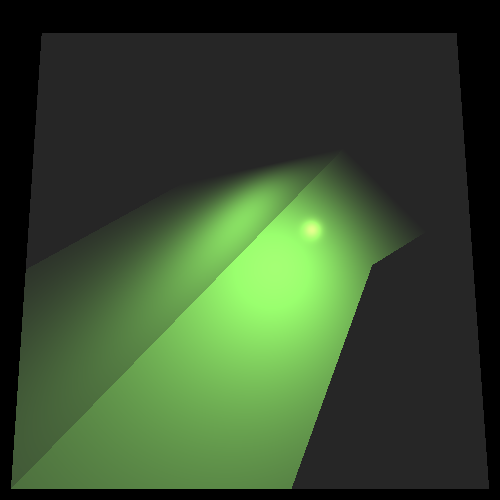
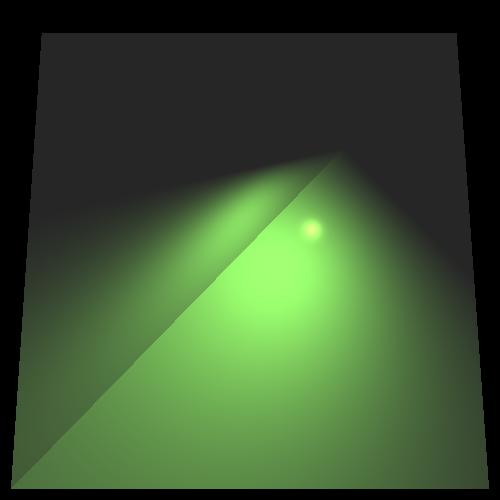
stage 7.2

Changed region(s): [[0.57, 0.48, 0.99, 0.99]]

diff --git a/src/renderer/RayTracerBasic.java b/src/renderer/RayTracerBasic.java
@@ -38,7 +38,7 @@ public class RayTracerBasic extends RayTracerBase {
      */
     private static final double MIN_CALC_COLOR_K = 0.001;
 
-    private static  final  Double3 INITIAL_K = Double3.ONE;
+    private static final Double3 INITIAL_K = Double3.ONE;
 
     //-----------------------------constructor-------------------------
 
@@ -88,15 +88,31 @@ public class RayTracerBasic extends RayTracerBase {
 
             // Check if any intersection point is closer to the light source than the current point
             for (GeoPoint intersectionPoint : intersections) {
-                if(intersectionPoint.geometry.getMaterial().kT.lowerThan(MIN_CALC_COLOR_K) ||
-                        lightSource.getDistance(gp.point) > point.distance(intersectionPoint.point))
-                    return false;
-                /*
-                if (lightSource.getDistance(gp.point) > point.distance(intersectionPoint.point))
-                    return false;
-                 */
+                if (lightSource.getDistance(gp.point) < point.distance(intersectionPoint.point)) {
+                    // Remove intersection points that are farther away from the light source than the current point
+                    intersections.remove(intersectionPoint);
+                }
             }
 
+            Double3 tr = Double3.ONE;
+            for (var geo : intersections) {
+                // Calculate the transmission coefficient (tr) for each intersection point
+                tr = tr.product(geo.geometry.getMaterial().kT);
+
+                // Check if the transmission coefficient is below the minimum threshold (MIN_CALC_COLOR_K)
+                if (tr.lowerThan(MIN_CALC_COLOR_K)) {
+                    // If the transmission coefficient is below the threshold, the point is considered fully transparent
+                    // and further calculations are not required
+                    return false;
+                }
+            }
+
+            /*
+             for (GeoPoint intersectionPoint : intersections) {
+                if (lightSource.getDistance(gp.point) > point.distance(intersectionPoint.point))
+                    return false;
+             }
+             */
             // If no closer intersection found, the point is unshaded
             return true;
         } catch (IllegalArgumentException e) {
@@ -114,37 +130,35 @@ public class RayTracerBasic extends RayTracerBase {
      * @param ray   The ray that intersected with the geometry
      * @return The color at the intersection point
      */
-    /**
-    private Color calcColor(GeoPoint point, Ray ray) {
-        // Calculate the color using ambient light and local effects
-        // Start by getting the intensity of the ambient light from the scene's ambient light source
-        Color ambientIntensity = scene.ambientLight.getIntensity();
-
-        // Calculate the local effects at the intersection point
-        Color localEffects = calcLocalEffects(point, ray);
-
-        // Combine the ambient light intensity and the local effects to get the final color
-        Color color = ambientIntensity.add(localEffects);
-
-        // Return the calculated color
-        return color;
-    }
-
+    /*
+     * private Color calcColor(GeoPoint point, Ray ray) {
+     * // Calculate the color using ambient light and local effects
+     * // Start by getting the intensity of the ambient light from the scene's ambient light source
+     * Color ambientIntensity = scene.ambientLight.getIntensity();
+     * <p>
+     * // Calculate the local effects at the intersection point
+     * Color localEffects = calcLocalEffects(point, ray);
+     * <p>
+     * // Combine the ambient light intensity and the local effects to get the final color
+     * Color color = ambientIntensity.add(localEffects);
+     * <p>
+     * // Return the calculated color
+     * return color;
+     * }
      */
-
-/*
+    /*
     private Color calcColor(GeoPoint gp, Ray ray, int level, Double3 k) {
         Color color = scene.ambientLight.getIntensity()
                 .add(calcLocalEffects(gp, ray));
         return 1 == level ? color : color.add(calcGlobalEffects(gp, ray, level, k));
     }
 
- */
-
+    */
     private Color calcColor(GeoPoint intersection, Ray ray, int level, Double3 k) {
         Color color = calcLocalEffects(intersection, ray);
         return 1 == level ? color
-                : color.add(calcGlobalEffects(intersection, ray, level, k));}
+                : color.add(calcGlobalEffects(intersection, ray, level, k));
+    }
 
 
     private Color calcColor(GeoPoint geopoint, Ray ray) {
@@ -200,17 +214,18 @@ public class RayTracerBasic extends RayTracerBase {
         if (kkx.lowerThan(MIN_CALC_COLOR_K)) return Color.BLACK;
         GeoPoint gp = findClosestIntersection(ray);
         if (gp == null) return scene.background.scale(kx);
-        return isZero(gp.geometry.getNormal(gp.point).dotProduct(ray.getDir()))? Color.BLACK :
-                calcColor(gp, ray, (level-1), kkx);
+        return isZero(gp.geometry.getNormal(gp.point).dotProduct(ray.getDir())) ? Color.BLACK :
+                calcColor(gp, ray, (level - 1), kkx);
     }
 
     private Color calcGlobalEffects(GeoPoint gp, Ray ray, int level, Double3 k) {
-        Color color = Color.BLACK;
+        //Color color = Color.BLACK;
         Vector v = ray.getDir();
         Vector n = gp.geometry.getNormal(gp.point);
         Material material = gp.geometry.getMaterial();
-        return calcGlobalEffect(constructReflectedRay(gp.point, v, n),level, k, material.kR)
-                .add(calcGlobalEffect(constructRefractedRay(gp.point, v, n),level, k, material.kT));}
+        return calcGlobalEffect(constructReflectedRay(gp.point, v, n), level, k, material.kR)
+                .add(calcGlobalEffect(constructRefractedRay(gp.point, v, n), level, k, material.kT));
+    }
 
     /**
      * Calculates the specular reflection color at a given intersection point.
@@ -246,7 +261,7 @@ public class RayTracerBasic extends RayTracerBase {
      * @return The calculated diffuse reflection color at the given intersection point
      */
     private Color calcDiffusive(Double3 kD, double nl, Color iL) {
-        // Calculate the diffuse reflection of light on the surface using the Lambertian reflection model
+        // Calculate the diffuse reflection of light on the surface using the Lambert reflection model
         // Start by scaling the diffuse coefficient with the absolute value of the dot product between the surface normal and the light direction
         Double3 diffuseCoefficient = kD.scale(Math.abs(nl));
 
@@ -335,13 +350,12 @@ public class RayTracerBasic extends RayTracerBase {
     }
 
 
-
     //---------------------------override functions-------------------------
 
     @Override
     public Color traceRay(Ray ray) {
         // Find the closest intersections between the ray and geometries in the scene
-        GeoPoint point  = this.findClosestIntersection(ray);
+        GeoPoint point = this.findClosestIntersection(ray);
 
         // If no intersections are found, return the background color of the scene
         if (point == null)
